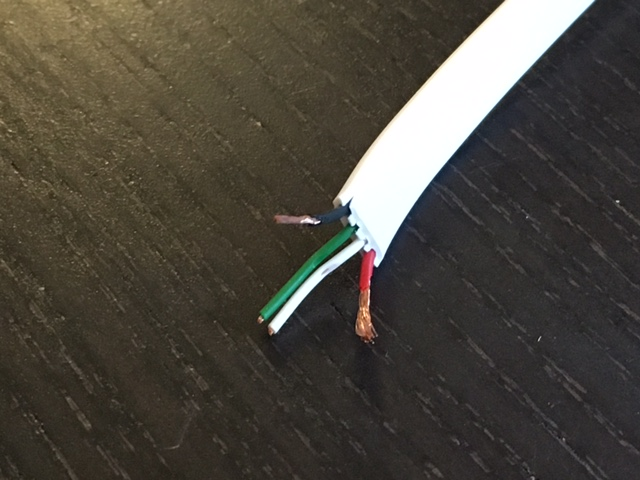
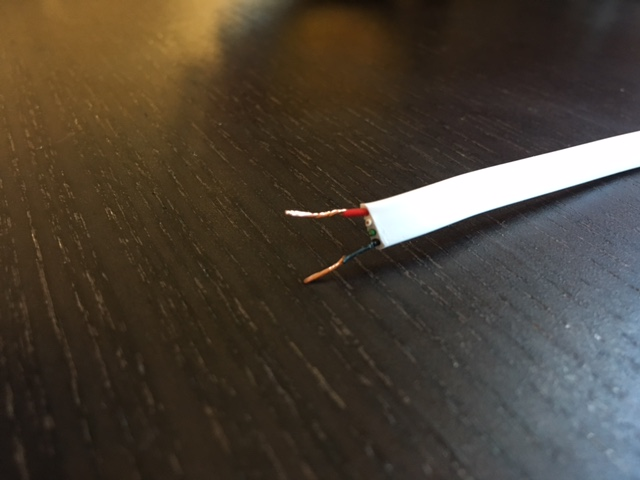
cable prep cleanup

diff --git a/docs/atoms_20_setup_and_demo/17_setup_duckiebot_c0wjd/0_6_power_cable_prep.md b/docs/atoms_20_setup_and_demo/17_setup_duckiebot_c0wjd/0_6_power_cable_prep.md
@@ -28,7 +28,7 @@ To begin with, find a male USB-A to anything cable.
 
 If you have purchased the suggested components listed in [](#acquiring-parts-c0), you can use the longer USB cable contained inside the battery package ([](#figure:battery-pack-usb-cables)), which will be used as an example in these instructions.  
 
-<div figure-id="fig:battery-pack-usb-cables" figure-caption="The two USB cable in the suggested battery pack.">
+<div figure-id="fig:battery-pack-usb-cables" figure-caption="The two USB cables in the suggested battery pack.">
      <img src="battery-pack-usb-cables.jpg" style='width: 15em'/>
 </div>
 
@@ -72,9 +72,21 @@ Once the bottom part of the external cable is removed, you will have isolated th
      <img src="stripped-the-outside.jpg" style='width: 15em'/>
 </div>
 
-## Step 3: Find the power wires
+## Step 3: Strip the wires {#strip-the-power-wires}
 
-If you are using the USB-A cable from the suggested battery pack, black and red are the power wires and green and white are instead for data. Continue reading from [](#chap:strip-the-power-wires). 
+Make sure the USB cable is _unplugged_ from any power source before proceeding. 
+
+Once you have isolated the wires, strip them, and use the scissors to cut off the data wires (green and white, central positions) ([](#figure:strip-power-wires)). 
+
+<div figure-id="fig:strip-power-wires" figure-caption="Strip the power wires and cut the data wires.">
+     <img src="strip-power-wires.jpg" style='width: 15em'/>
+</div>
+
+If you are not using the suggested cable, or want to verify which are the data and power wires, continue reading. 
+
+## Step 4: Find the power wires
+
+If you are using the USB-A cable from the suggested battery pack, black and red are the power wires and green and white are instead for data.
 
 If you are using a different USB cable, or are curious to verify which the power wires are, continue reading here. 
 
@@ -84,23 +96,11 @@ Plug the USB port inside a power source, e.g., the Duckiebot's battery. You can 
      <img src="testing-voltage-usb-cable-power-wires.jpg" style='width: 15em'/>
 </div>
 
-## Step 4: Strip the power wires {#chap:strip-the-power-wires}
-
-_Unplug_ the USB cable from any power source before proceeding. 
-
-Once you have identified the power cables, strip them, and use the scissors to cut off the data cables ([](#figure:strip-power-wires)). 
-
-<div figure-id="fig:strip-power-wires" figure-caption="Strip the power wires and cut the data wires.">
-     <img src="strip-power-wires.jpg" style='width: 15em'/>
-</div>
-
 ## Step 5: Test correct operation
 
-You are now ready to secure the power wires to the DC motor HAT power pins. 
+You are now ready to secure the power wires to the DC motor HAT power pins. To do so though, you need to have soldered the boards first. If you have not done so yet, proceed to [](#soldering-boards-c0). 
 
-If you have not done so yet, proceed to [](#soldering-boards-c0). 
-
-If you have soldered your boards already, you may test if everything works. Connect the battery with the DC motor HAT by making sure you plug the black wire in the pin labeled with a minus: `-` and the red wire to the plus: `+` ([](#figure:final-result-power-c0)).
+If you have soldered the boards already, you may test correct functionality of the newly crafted cable. Connect the battery with the DC motor HAT by making sure you plug the black wire in the pin labeled with a minus: `-` and the red wire to the plus: `+` ([](#figure:final-result-power-c0)).
 
 <div figure-id="fig:final-result-power-c0" figure-caption="Connnect the power wires to the DC motor HAT">
      <img src="final-result-power-c0.jpg" style='width: 15em'/>

diff --git a/docs/atoms_20_setup_and_demo/18_setup_duckietown/05_duckietown_parts.md b/docs/atoms_20_setup_and_demo/18_setup_duckietown/05_duckietown_parts.md
@@ -19,7 +19,7 @@ Next Steps:
  [Assemblying](#duckietown-assembly) a Duckietown.
 </div>
 
-TODO: Add "Tools" section?
+TODO: Figure out costs
 
 ## Bill of materials
 
@@ -32,7 +32,7 @@ TODO: Add "Tools" section?
     <s>[Duct tape - Red](https://tinyurl.com/ybyc8qrq)</s>                       <s>USD 8.50/roll</s>
     <s>[Duct tape - White](https://tinyurl.com/ydhtzjb4)</s>                       <s>USD 8.50/roll</s>
     <s>[Duct tape - Yellow](http://www.identi-tape.com/duct-tape1.html)</s>               <s>USD 8/roll</s>
-    <s>[Traffic signs](https://tinyurl.com/y7nh3ayz)</s>                         <s>USD 18.50/13 pieces</s>  
+    <s>[Traffic signs](https://tinyurl.com/y7nh3ayz)</s>                         <s>USD 18.50/13 pieces</s>
     <s>Total for $\text{Duckietown}/m^2$</s>                         <s>USD ??</s>
  </col2>
 

diff --git a/docs/atoms_20_setup_and_demo/19_setup_duckiebot_c1/10_parts-c1.md b/docs/atoms_20_setup_and_demo/19_setup_duckiebot_c1/10_parts-c1.md
@@ -13,7 +13,7 @@ In general, keep in mind that:
 <div class='requirements' markdown="1">
 Requires:
 - A Duckiebot in `C0+wjd` configuration. 
-- Cost: USD 69 + Bumpers manufacturing solution
+- Cost: USD 77 + Bumpers manufacturing solution
 - Time: 21 Days (LED board manufacturing and shipping time)
 
 Results:
